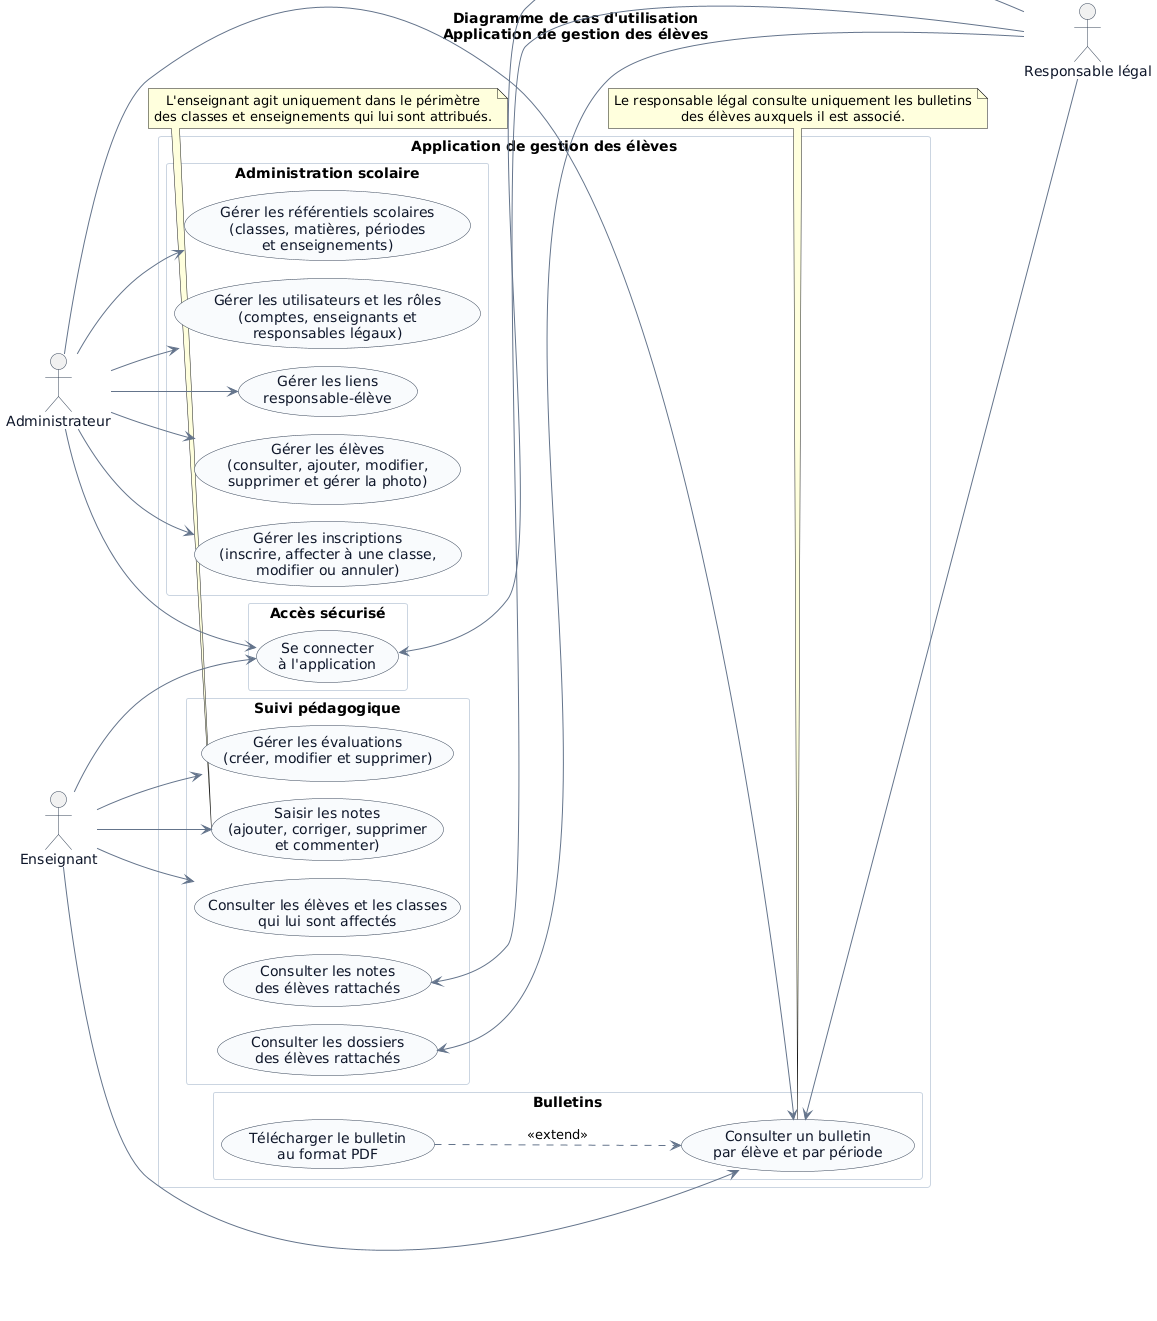
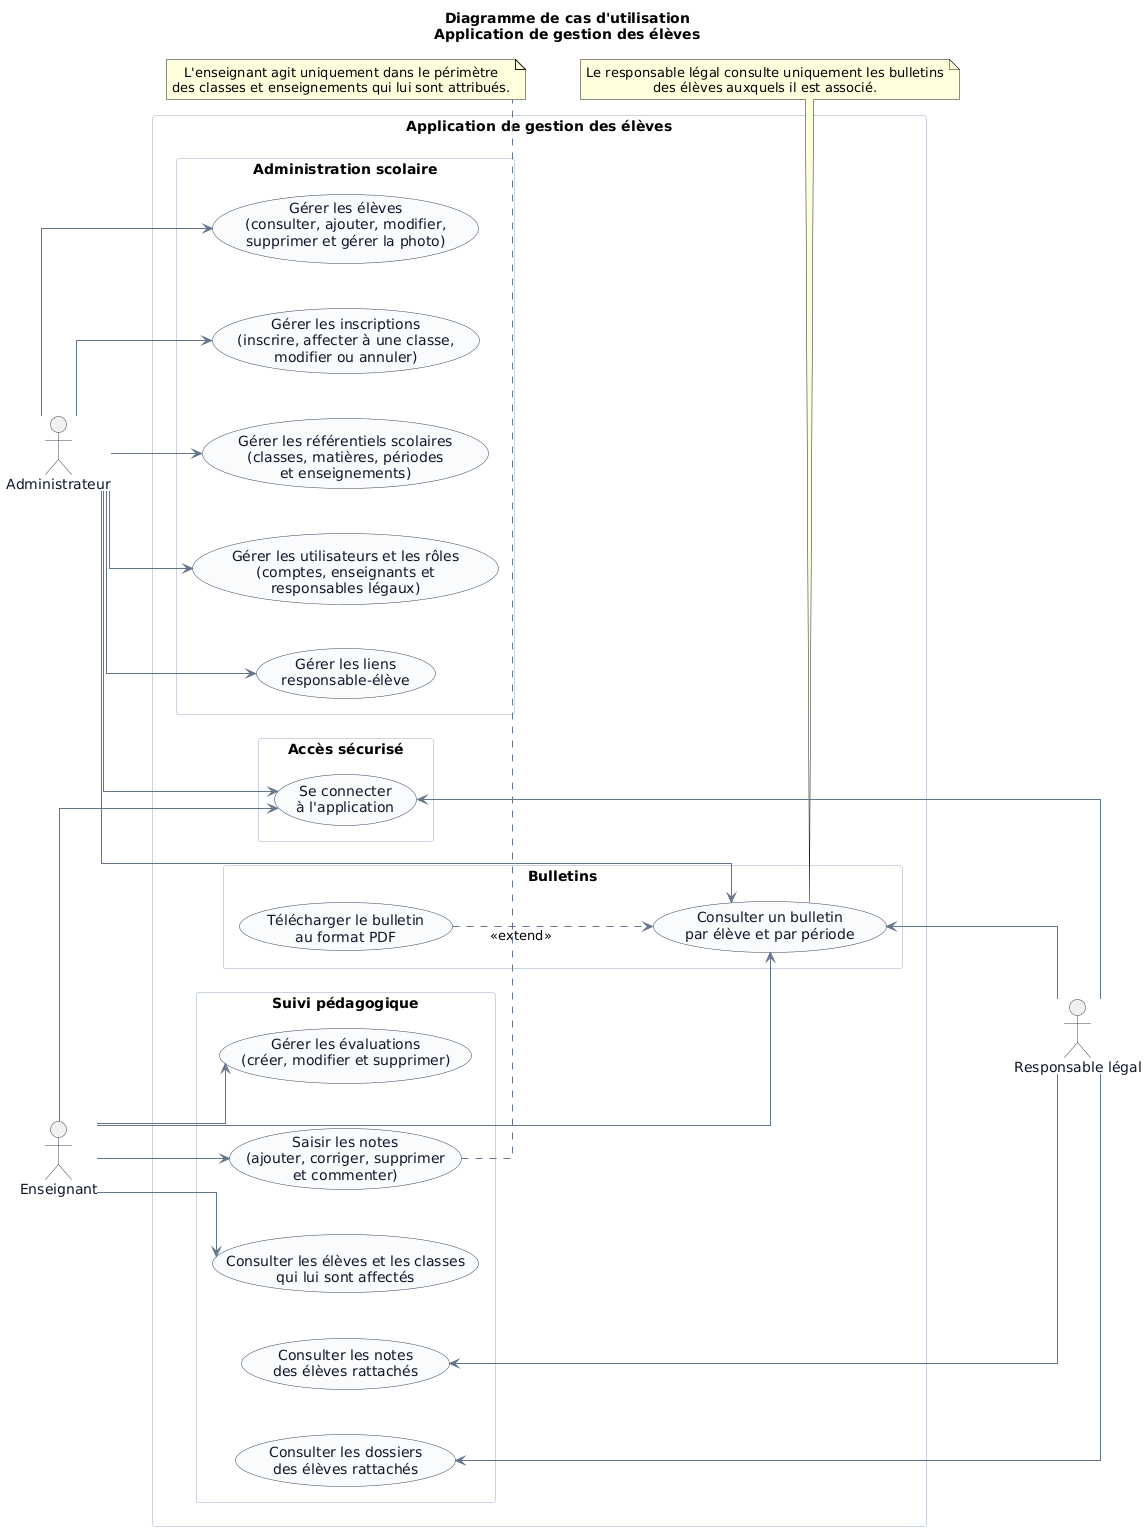
docs(jury): finaliser les UML et confronter les livrables au sujet

diff --git a/docs/jury/CHECKLIST_LIVRABLES.md b/docs/jury/CHECKLIST_LIVRABLES.md
@@ -1,34 +1,42 @@
-# Matrice de conformité
+# Conformité aux exigences communiquées
 
-Référence : documents du dépôt et mission jury. Aucun énoncé PDF trouvé dans
-le dépôt ; conformité à un sujet officiel non certifiée. Chemins depuis la racine.
+Référence provisoire : liste transmise par l’utilisateur, sujet « Développement d’une application Full Stack de gestion des élèves ». Le PDF original n’est pas accessible ici et n’a pas été consulté ; comparaison manuelle encore nécessaire.
 
-| Exigence | Implémentation / fichier | Preuve | Statut | Action |
-|---|---|---|---|---|
-| MCD | docs/merise/MCD.png | conception-audit.md | Partiellement conforme | Corriger patte ELEVE dans Looping |
-| MLD | docs/merise/MLD.png | audit modèles | Partiellement conforme | Identifier et renommer FK responsabilité |
-| MPD | docs/merise/mpd-courant-v3.sql | migrations officielles | Conforme documentaire | Ne pas exécuter sur base existante |
-| Cas d'utilisation | docs/uml/cas-utilisation.puml | source | À vérifier manuellement | Comparer au scénario oral |
-| Classes UML | docs/uml/diagramme-classes-*.puml | MapsId/PONDERER/année | Partiellement conforme | PNG complet à régénérer ; vues découpées actualisées |
-| Séquence | docs/uml/sequence-ajouter-note.puml | NoteRequest, HTTP 400 | Partiellement conforme | PNG complet à régénérer ; vues découpées actualisées |
-| JWT/comptes | JwtConfig, ActiveAccountJwtValidator | tests sécurité Java | Conforme automatisé | Durcissement production distinct |
-| Rôles/ressources | SecurityConfig, SecurityExpressions | AuthorizationHttpTest, roles-access.spec.js | Conforme automatisé | Répétition orale |
-| CRUD élèves | EleveController/Service, React | tests Java/E2E | Conforme automatisé | Répéter manuellement |
-| Notes/barèmes | NoteService | tests métier/HTTP | Conforme automatisé | Montrer refus 21/20 |
-| Photos | ElevePhotoService | ElevePhotoTransactionIntegrationTest | Conforme automatisé | Photo fictive |
-| Bulletins/PDF | BulletinCalculService, BulletinPdfService | tests calcul/PDF/E2E | Conforme automatisé | Ouvrir PDF en lecteur |
-| Couches/erreurs/DTO | controller/service/repository/exception/dto | suite Java | Conforme automatisé | Expliquer un parcours |
-| Connexion/déconnexion | AuthContext, authStorage | E2E rôles | Conforme automatisé | Session expirée manuelle |
-| Formulaires/navigation | frontend/src/pages | React/E2E | Partiellement conforme | Inspection visuelle |
-| Responsive/contrastes | frontend/src/index.css, composants | pas de mesure exhaustive | À vérifier manuellement | Téléphone/clavier |
-| PostgreSQL/Flyway | scripts/test-ponderer.sh | tests migration | Conforme automatisé | Base réelle non migrée |
-| Docker | scripts tmpfs | compte test non superutilisateur | Conforme tests | Déploiement complet différé |
-| README | README.md | base neuve/existante séparées | Partiellement conforme | Répéter hors ligne |
-| Démonstration | scripts/test-e2e.sh --demo | procédure dédiée | À vérifier manuellement | Répétition complète candidat |
-| Tests | TESTS_ET_PREUVES.md | campagne locale | Voir preuves | Distinguer CI et local |
-| GitHub | feature/jury-finalisation | commits/PR si réseau | À vérifier | Publication/CI |
-| Scrum | docs/scrum/README.md | chronologie Git | Conforme documentaire | Pas de cérémonie inventée |
-| Dossier jury | docs/jury/ | neuf documents | Conforme documentaire | Relecture candidat |
+| Exigence | Fichier depuis la racine | État | Preuve / action |
+|---|---|---|---|
+| MCD Merise | docs/merise/MCD.png | Réalisé mais à vérifier manuellement | Guide Looping ; export historique |
+| MLD | docs/merise/MLD.png | Réalisé mais à vérifier manuellement | FK et profils à revoir dans Looping |
+| MPD PostgreSQL | docs/merise/mpd-courant-v3.sql | Réalisé et prouvé | Concaténation V1/V2/V3 ; migrations immuables |
+| UML cas d’utilisation | docs/uml/cas-utilisation.puml | Réalisé et prouvé | Source et export ; relecture orale |
+| UML classes | docs/uml/diagramme-classes-complet.puml | Réalisé et prouvé | Rendu Graphviz actuel ; vues découpées pour l’oral |
+| UML séquence | docs/uml/sequence-ajouter-note.puml | Réalisé et prouvé | PNG déjà exporté ; NoteRequest et HTTP 400 |
+| Java 17+ / Spring Boot 3+ | backend/pom.xml | Réalisé et prouvé | Java 21 ; Spring Boot 3 ; suite Java |
+| Spring Data JPA | backend/src/main/java/fr/afpa/backend/repository/ | Réalisé et prouvé | Repositories et intégration PostgreSQL |
+| Spring Security JWT | backend/src/main/java/fr/afpa/backend/config/JwtConfig.java | Réalisé et prouvé | Validation signature/expiration/compte |
+| Trois rôles | backend/src/main/java/fr/afpa/backend/config/SecurityConfig.java | Réalisé et prouvé | Tests HTTP et E2E des rattachements |
+| API REST | backend/src/main/java/fr/afpa/backend/controller/ | Réalisé et prouvé | DTO, validations, statuts HTTP |
+| Gestion élèves | frontend/src/pages/ElevesPage.jsx | Réalisé et prouvé | CRUD et E2E |
+| Gestion notes | backend/src/main/java/fr/afpa/backend/service/NoteService.java | Réalisé et prouvé | Barème, classe, droits et E2E |
+| Upload photos | backend/src/main/java/fr/afpa/backend/service/ElevePhotoService.java | Réalisé et prouvé | Tests transactionnels et E2E |
+| Bulletins PDF | backend/src/main/java/fr/afpa/backend/service/BulletinPdfService.java | Réalisé et prouvé | Calcul et signature PDF en tests |
+| JUnit/Mockito/AssertJ/MockMvc | backend/src/test/ | Réalisé et prouvé | Suite Java complète |
+| React/Tailwind | frontend/package.json | Réalisé et prouvé | Build, lint et tests |
+| Responsive | frontend/src/ | Réalisé mais à vérifier manuellement | Clavier, mobile, contrastes : répétition candidat |
+| PostgreSQL/Docker Compose | docker-compose.yml | Réalisé et prouvé | Compose documenté ; tests sur PostgreSQL 17 jetable |
+| README/documentation | README.md, docs/jury/ | Réalisé et prouvé | Base neuve/existante séparées ; démo isolée |
+| Dépôt GitHub | PR #5 | Réalisé et prouvé | Branche publiée, CI ; aucune fusion automatique |
+| Suivi Scrum | docs/scrum/README.md | Réalisé mais à vérifier manuellement | Traçabilité Git prouvée ; cérémonies non attestées |
 
-Points d'attention : exports obsolètes, répétition de démo, absence d'énoncé officiel.
-La migration réelle V3 n'est pas un prérequis à la démonstration isolée.
+## Partie Scrum du sujet
+
+| Exigence | État | Explication et action |
+|---|---|---|
+| Équipe de trois, PO formateur, Scrum Master/développeurs | Dépendant d’une validation du formateur | Aucun membre ni rôle effectivement tenu n’est attesté par les fichiers ; faire confirmer l’organisation réelle |
+| Trois à quatre sprints hebdomadaires | Prévu mais non réalisé dans les preuves disponibles | Les commits datent des incréments, pas des sprints d’une semaine |
+| Planning, Daily, Review, Retrospective | Prévu mais non réalisé dans les preuves disponibles | Aucune cérémonie attestée ; ne pas inventer de comptes rendus |
+| Kanban To Do/In Progress/In Review/Done | Réalisé documentaire | Voir tableau de finalisation ; pas une reconstitution d’un tableau historique |
+| Cartes : titre, story, responsable, branche | Réalisé documentaire | Trame fournie ; responsable à renseigner par le candidat |
+| Rapports courts de sprint | Réalisé partiellement | Incréments Git factuels et trame ; pas de rapport de cérémonie inventé |
+| Démonstrations 5–10 minutes | Prévu mais non réalisé dans les preuves disponibles | Répétition candidat à effectuer ; E2E ne prouve pas une review |
+
+« Non attesté » ne permet pas de conclure qu’un événement n’a jamais eu lieu ; le candidat doit apporter les preuves réelles ou expliquer l’écart au formateur.

diff --git a/docs/jury/GUIDE_LOOPING.md b/docs/jury/GUIDE_LOOPING.md
@@ -1,0 +1,29 @@
+# Correction Looping sur copie — à réaliser par le candidat
+
+Aucune modification du .loo ou des PNG Merise n'est revendiquée ici.
+Looping n'est pas disponible dans cet environnement. Préserver l'original
+gestion-eleves.loo et LoopingImage.jpg ; travailler sur une copie nommée
+gestion-eleves-jury.loo et exporter sous des noms nouveaux.
+
+| Élément | Manipulation à vérifier dans Looping | Justification / résultat |
+|---|---|---|
+| RESPONSABILITE_LEGALE côté ELEVE | Ouvrir la patte, mettre minimum 0 maximum n | Un élève peut exister avant toute responsabilité |
+| FK de la liaison | Identifier d'abord la table cible de chaque FK générée ; nommer id_responsable et id_eleve | Ne pas déduire la cible du seul suffixe _1 |
+| PK liaison | Sélectionner les deux FK comme clé primaire composée | Unicité du couple, conforme au MPD |
+| PERSONNE/profils | Vérifier une PK/FK partagée pour ELEVE, ENSEIGNANT et RESPONSABLE ; spécialisation non exclusive | Une personne peut cumuler plusieurs profils ; chaque profil a exactement une personne |
+| PONDERER | Association CLASSE/MATIERE, coefficient_matiere, PK composée | Coefficient unique par couple ; ne pas le confondre avec coefficient_evaluation |
+| ENSEIGNEMENT | Conserver les liens enseignant/classe/matière | Son coefficient SQL miroir reste soumis à PONDERER, FK et triggers V2 |
+| PERIODE | Ajouter annee_scolaire facultative de longueur 9 dans le modèle physique | V3 autorise NULL, format AAAA-AAAA et années consécutives |
+| Scolarité/notes | Vérifier FK élève/classe et FK note/scolarité/évaluation | Comparer chaque relation au MPD courant, sans inventer de règle temporelle |
+
+Dans le MCD, représenter les identifiants conceptuels ; ne pas ajouter
+arbitrairement les FK générées du MLD comme nouveaux attributs métier.
+Comparer INSCRIPTION, SCOLARITE, ENSEIGNEMENT, EVALUATION, NOTE, BULLETIN,
+LIGNE_BULLETIN et COMPTE_UTILISATEUR aux sources SQL et JPA.
+
+Vérification finale : ouvrir les nouveaux exports à 100 %, lire les deux
+extrémités de chaque association, contrôler PK/FK et possibilité de cumuler
+les profils. Faire confirmer les conventions Merise au formateur.
+Ne remplacer les exports versionnés qu'après cette validation visuelle.
+Capturer avant/après et conserver la copie source. Aucun SQL ne doit être
+exécuté sur PostgreSQL réel pour cette correction documentaire.

diff --git a/docs/jury/REPETITION_CANDIDAT.md b/docs/jury/REPETITION_CANDIDAT.md
@@ -1,0 +1,38 @@
+# Répétition personnelle : cases à cocher et preuves
+
+Cette checklist est à exécuter par le candidat ; elle n'atteste aucune
+répétition manuelle passée. Utiliser scripts/test-e2e.sh --demo exclusivement.
+
+- [ ] Vérifier l'URL dynamique et la base neuve ; garder le terminal ouvert.
+- [ ] Connexion ADMIN : capturer le tableau de bord sans exposer le mot de passe.
+- [ ] Créer enseignant, responsable et leurs comptes fictifs.
+- [ ] Créer élève et photo PNG synthétique ; capturer la photo après rechargement.
+- [ ] Relier le responsable à l'élève ; créer un autre élève non lié.
+- [ ] Classe, matière, enseignement et pondération cohérente.
+- [ ] Inscription puis scolarité ; période 2026-2027 ; évaluation sur 20.
+- [ ] Connexion ENSEIGNANT : saisir 15/20, refuser 21/20 ; capturer le message.
+- [ ] Calculer le bulletin ; télécharger et ouvrir le PDF fictif.
+- [ ] Connexion RESPONSABLE : voir son élève et PDF, pas l'autre.
+- [ ] Montrer un refus API hors périmètre ; masquer un bouton ne suffit pas.
+- [ ] Vérifier clavier, focus, petit écran, chargements et états vides.
+- [ ] Déconnexion, rafraîchissement et reconnexion.
+- [ ] Ctrl-C : processus et conteneur de démo supprimés, fichiers réels intacts.
+
+À conserver : captures ADMIN/ENSEIGNANT/RESPONSABLE, refus, PDF fictif,
+résultats locaux et lien CI. Aucun JWT, secret ou donnée réelle sur les captures.
+
+Panne Internet : dépendances, Chromium et image postgres:17 doivent déjà
+être téléchargés ; sinon montrer les captures comme une démonstration enregistrée.
+Panne applicative : arrêter la démo, expliquer le symptôme, utiliser le PDF
+fictif de secours et les preuves CI, sans toucher à la base de développement.
+
+## Les huit points à savoir expliquer personnellement
+
+1. Le besoin scolaire et les trois acteurs.
+2. PERSONNE et profils MapsId cumulables, distincts du rôle du compte.
+3. JWT signé, expiration, compte actif et contrôle de ressource.
+4. Notes normalisées sur 20 et les deux niveaux de coefficients.
+5. Transactions SQL et limites du nettoyage des fichiers photo.
+6. Flyway V1/V2/V3 ; V3 réelle non autorisée, historique préservé.
+7. Différence unitaire/intégration/E2E et portée réelle des preuves.
+8. Écarts Scrum honnêtes, limites temporelles et archivage différé.

diff --git a/docs/scrum/README.md b/docs/scrum/README.md
@@ -68,3 +68,26 @@ distinction entre tests automatiques et recette manuelle, exports identifiés
 comme historiques tant qu'ils ne sont pas régénérés, données réelles préservées.
 Une fonctionnalité reportée ne doit pas être déclarée livrée sur la seule base
 d'un document ou d'un schéma.
+
+## Confrontation au sujet communiqué — finalisation PR #5
+
+Le sujet envisage trois personnes, PO formateur, Scrum Master/développeurs,
+trois à quatre sprints hebdomadaires, Planning/Daily/Review/Retrospective
+et démos de 5–10 minutes. Les traces disponibles ne prouvent ni cette équipe,
+ni ces rôles effectivement tenus, ni ces cérémonies. Le candidat doit faire
+confirmer les faits par le formateur. Les dates Git ne sont pas des sprints.
+
+Tableau documentaire actuel (pas un historique Kanban reconstitué) :
+
+| État | Carte / user story | Responsable | Branche |
+|---|---|---|---|
+| To Do | Comme candidat, corriger Looping pour défendre les cardinalités | Candidat à confirmer | À créer après correction manuelle |
+| In Progress | Comme candidat, répéter les trois rôles et le PDF | À renseigner par le candidat | feature/jury-finalisation |
+| In Review | Comme candidat, disposer des modèles et preuves de soutenance | Auteur des commits visibles dans Git | feature/jury-finalisation, PR #5 |
+| Done | Comme développeur, tester les règles sur base jetable | Auteur des commits visibles dans Git | Voir commits et CI |
+
+Trame de rapport court à compléter après une vraie période de travail :
+dates réelles, objectif, cartes terminées/non terminées, preuves Git/CI,
+difficultés, actions suivantes. Une review effective peut présenter en 5–10
+minutes : besoin, parcours, refus métier, PDF, tests et limites.
+Ne pas remplir rétrospectivement une présence ou une validation non attestée.

diff --git a/docs/jury/UML_RENDU.md b/docs/jury/UML_RENDU.md
@@ -1,0 +1,27 @@
+# Reproduction et contrôle des rendus UML
+
+PlantUML 1.2025.10, mode Java headless. Graphviz 2.42.2 pour le complet
+et les cas d'utilisation ; Smetana pour les autres vues. Les moteurs peuvent
+modifier la disposition sans modifier le modèle.
+
+Sur une installation disposant de Java, PlantUML et Graphviz :
+
+    java -Djava.awt.headless=true -jar plantuml.jar -checkonly docs/uml/*.puml
+    java -Djava.awt.headless=true -jar plantuml.jar -tpng docs/uml/diagramme-classes-complet.puml
+    java -Djava.awt.headless=true -jar plantuml.jar -tpng docs/uml/cas-utilisation.puml
+
+Dans cette campagne, Graphviz et ses bibliothèques ont été extraits sous /tmp,
+sans installation système. GRAPHVIZ_DOT, LD_LIBRARY_PATH et GVBINDIR désignaient
+cette copie. Le plugin neato absent de dépendances a émis un avertissement
+pendant sa configuration ; le rendu dot utilisé a terminé sans erreur.
+
+Le complet conserve les relations initiales : Personne est concrète, conformément
+à JPA. Seuls polylignes et espacements ont été changés pour la disposition.
+L'image a été examinée : classes et relations présentes, texte lisible en zoom.
+Elle reste dense à projeter : préférer utilisateurs/scolarité/pédagogie à l'oral.
+
+Les métadonnées intégrées aux PNG permettent de comparer leur source à la
+version courante. L'ancien doublon cas-utilisation.png.png est historique,
+distinct du PNG officiel cas-utilisation.png ; ne pas l'utiliser au jury.
+
+La comparaison des métadonnées normalise uniquement le tiret typographique en tiret simple, transformation effectuée par PlantUML ; les relations du complet sont comparées avant/après et inchangées.

diff --git a/docs/jury/TESTS_ET_PREUVES.md b/docs/jury/TESTS_ET_PREUVES.md
@@ -52,8 +52,18 @@ minimatch à jour dans les plages compatibles. Lint, 27 tests React et build
 ont été relancés avec succès sur cet arbre de dépendances.
 
 La relance finale Playwright après correction npm passe également : 16/16.
-PlantUML 1.2025.10 récupéré depuis Maven Central : contrôle syntaxique des sept
+Historique du premier sprint, désormais dépassé par la campagne ci-dessous : PlantUML 1.2025.10 récupéré depuis Maven Central : contrôle syntaxique des sept
 sources réussi ; six PNG régénérés en mode headless/Smetana. Le rendu du
 diagramme complet a produit une erreur interne du moteur : son export
 historique a été rétabli, aucune image d'erreur n'est publiée.
 Les vues découpées sont celles à utiliser pour la présentation.
+
+## Nouvelle campagne de finalisation de PR #5
+
+438 tests Java, zéro échec/erreur/ignoré ; 27 React ; 16 Playwright ; lint,
+build et packaging réussis. Audit npm en ligne recontrôlé.
+Le mode --demo a redémarré PostgreSQL isolé et les deux serveurs sur ports
+dynamiques ; arrêt Ctrl-C effectué. Aucun parcours candidat manuel n'est revendiqué.
+Graphviz a permis de lever le blocage du rendu complet ; les cas d'utilisation
+ont aussi été régénérés. Contrôle syntaxique et correspondance des sources
+par métadonnées PNG effectués. Voir UML_RENDU.md.

diff --git a/docs/jury/MERISE_UML_EXPLICATIONS.md b/docs/jury/MERISE_UML_EXPLICATIONS.md
@@ -12,7 +12,7 @@ acteurs, classes applicatives et séquences d'appels.
 | MPD historique | docs/merise/mpd-postgresql.sql | V1 conservée |
 | MPD courant | docs/merise/mpd-courant-v3.sql | V1/V2/V3 documentaires |
 | Cas d'utilisation | docs/uml/cas-utilisation.puml | Source disponible |
-| Classes | docs/uml/diagramme-classes-*.puml | Sources réconciliées ; six PNG régénérés, complet historique |
+| Classes | docs/uml/diagramme-classes-*.puml | Sources et sept PNG actualisés |
 | Séquence note | docs/uml/sequence-ajouter-note.puml | DTO et HTTP corrigés |
 
 PERSONNE porte les coordonnées communes. ELEVE, ENSEIGNANT et RESPONSABLE
@@ -43,4 +43,4 @@ des dates et de l'année scolaire : décision différée au lot 3B.
 
 Les entités BULLETIN/LIGNE_BULLETIN existent dans le schéma, mais le parcours
 courant génère un calcul et un PDF à la demande. Ne pas prétendre disposer
-d'un archivage validé. Six PNG sont régénérés avec PlantUML 1.2025.10/Smetana. Le diagramme complet seul reste historique : erreur interne du moteur, ancien PNG préservé. Utiliser les vues découpées actualisées pour l’oral.
+d'un archivage validé. Les sept PNG correspondent aux sources. Le complet et les cas d’utilisation ont été rendus avec Graphviz ; utiliser les vues découpées à l’oral pour éviter une projection trop dense.

diff --git a/docs/conception-audit.md b/docs/conception-audit.md
@@ -72,3 +72,15 @@ Looping, à effectuer sur une copie du .loo : dans RESPONSABILITE_LEGALE,
 mettre la patte ELEVE à 0,n ; dans le MLD identifier chaque FK par sa table
 cible, puis nommer id_responsable et id_eleve. Vérifier la PK composée et
 exporter sous de nouveaux noms. Ne jamais modifier LoopingImage.jpg.
+
+## Clôture des rendus et exigences — finalisation PR #5
+
+Le diagramme complet a finalement été rendu avec Graphviz 2.42.2 et PlantUML
+1.2025.10, après correction de Personne concrète et ajustements de disposition
+(polylignes, espacement). Aucune association n'a été supprimée. Le PNG des cas
+d'utilisation est également régénéré avec Graphviz. Les autres exports restent
+ceux des sources courantes, vérifiés par leurs métadonnées.
+Le complet est un document de référence à zoomer ; les vues découpées sont
+préférables sur vidéoprojecteur. Les mentions précédentes d'échec restent
+l'historique des essais, pas l'état du livrable final.
+Le guide GUIDE_LOOPING.md décrit les seules corrections Merise encore manuelles.

diff --git a/docs/jury/LIMITES_ET_EVOLUTIONS.md b/docs/jury/LIMITES_ET_EVOLUTIONS.md
@@ -5,7 +5,7 @@
 - Énoncé PDF non trouvé dans le dépôt : exigences évaluées à partir des documents
   disponibles et de la mission, pas d'un sujet officiel consulté.
 - Répéter manuellement toute la démonstration, le responsive et les contrastes.
-- Corriger les exports Looping et régénérer le seul UML complet resté historique ; six autres PNG ont été régénérés.
+- Corriger les exports Looping ; les sept exports UML sont actualisés.
 - Contrôler les dépendances en ligne et la CI distante quand le réseau fonctionne.
 - PostgreSQL réel reste V2 : ce sprint n'autorise ni sa migration ni son backend.
 

diff --git a/docs/jury/REPRISE.md b/docs/jury/REPRISE.md
@@ -31,7 +31,7 @@ npm audit --audit-level=high. Les commandes réseau requièrent un accès dispon
 ## À terminer manuellement
 
 1. Obtenir l'énoncé officiel et compléter la matrice si des exigences manquent.
-2. Corriger Looping sur copie et régénérer le PNG UML complet (échec Smetana) ; six autres PNG actualisés.
+2. Corriger Looping sur copie ; UML complet désormais rendu avec Graphviz.
 3. Répéter toutes les manipulations de DEMONSTRATION.md, avec clavier/mobile.
 4. Préparer captures et PDF fictifs de secours, sans données réelles.
 5. Relire le dossier avec le candidat : appropriation des 35 réponses.
